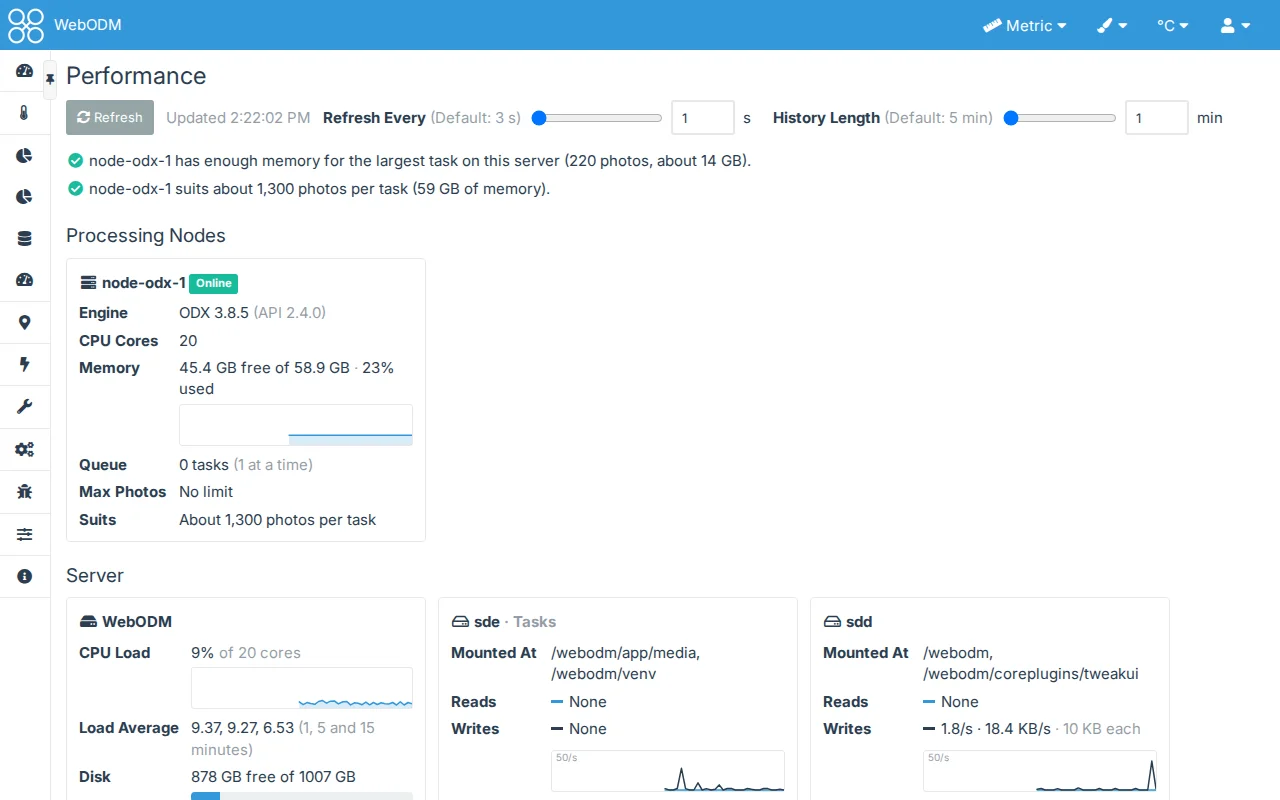
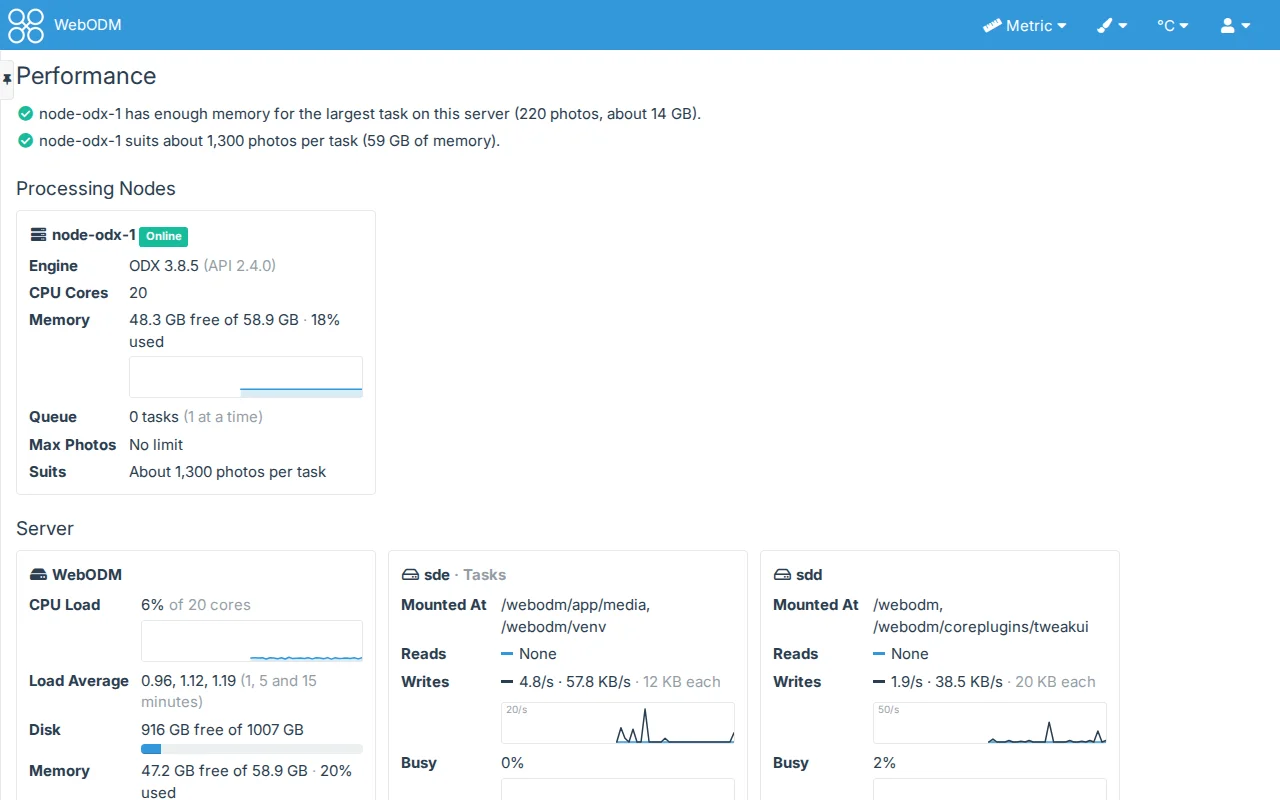
Performance View: Refresh, Refresh Every and History Length above Recent Processing
The page's controls move from under its title to between the server's cards and Recent Processing, the
sliders stacked under Refresh and lined up. Recent Processing renders into its own part below them, so the
controls stay put while the page redraws. Docs, CHANGELOG and screenshots updated.

diff --git a/tweakui/public/__tests__/performance_page.test.js b/tweakui/public/__tests__/performance_page.test.js
@@ -30,6 +30,7 @@ function report(extra) {
 function page(every = 3, history = 5) {
     document.body.innerHTML = `
       <div id="tweakui-performance" data-api="/api/plugins/tweakui/">
+        <div class="tweakui-performance-body"></div>
         <div class="tweakui-performance-bar"><button data-act="refresh"></button><span class="tweakui-performance-status"></span>
           <div class="tweakui-performance-every" data-control="refresh">
             <input type="range" class="tweakui-performance-every-slider" min="1" max="10" step="1" value="${every}">
@@ -42,7 +43,7 @@ function page(every = 3, history = 5) {
             <span class="tweakui-performance-every-status"></span>
           </div>
         </div>
-        <div class="tweakui-performance-body"></div>
+        <div class="tweakui-performance-recent"></div>
       </div>`;
     return document.getElementById("tweakui-performance");
 }
@@ -148,7 +149,7 @@ describe("the Performance page", () => {
         expect(words(rows[1].querySelector("td a"))).toBe("Task of 2026-11-06");
         expect(words(rows[1].querySelector("td a + .text-muted"))).toBe("Flights of pat");
         expect(texts(rows[1], "td").slice(3, 6)).toEqual(["", "", ""]);
-        expect(texts(root, ".tweakui-performance-body > p.text-muted")[0])
+        expect(texts(root, ".tweakui-performance-recent > p.text-muted")[0])
             .toBe("The last 2 finished tasks of yours (completed, failed or canceled), newest first.");
     });
 
@@ -279,6 +280,18 @@ describe("the Performance page", () => {
             .toBe("Recent tasks took about as long per photo as earlier ones (2.1s against 2.0s).");
         const {root} = await started([json(report({trend: {recent: 2, earlier: 4, change: -0.5, same: false}}))]);
         expect(root.querySelector(".tweakui-performance-trend").textContent).toMatch(/50% less/);
+    });
+
+    test("the page's controls sit between the server's cards and Recent Processing, and stay put as the page redraws", async () => {
+        const {root, view} = await started([json(report()), json(report())]);
+        const parts = Array.from(root.children).map(c => c.className);
+        expect(parts).toEqual(["tweakui-performance-body", "tweakui-performance-bar", "tweakui-performance-recent"]);
+        expect(root.querySelector(".tweakui-performance-body [data-server]")).not.toBeNull();
+        expect(root.querySelector(".tweakui-performance-recent h4").textContent).toBe("Recent Processing");
+        const slider = root.querySelector(".tweakui-performance-every-slider");
+        await view.load();
+        expect(root.querySelector(".tweakui-performance-every-slider")).toBe(slider);
+        expect(root.querySelectorAll(".tweakui-performance-recent .tweakui-performance-table").length).toBe(1);
     });
 
     test("Refresh asks again, is disabled while it waits and keeps the page when it fails", async () => {

diff --git a/tweakui/public/main.css b/tweakui/public/main.css
@@ -346,7 +346,9 @@ html.tweakui-dragging, html.tweakui-dragging * { user-select: none; }
 /* Diagnostic > Performance (templates/performance.html, performance_page.js): verdicts, then cards (a processing node
    each, the server) that wrap to one column on a phone, and the recent tasks' table, which scrolls sideways there
    rather than the page. Bars are Bootstrap's progress bars, as WebODM's own Diagnostic page has. */
-.tweakui-performance .tweakui-performance-bar { display: flex; flex-wrap: wrap; align-items: center; gap: 12px; margin-bottom: 12px; }
+/* The page's controls, above Recent Processing: Refresh and its status, then the sliders under it */
+.tweakui-performance .tweakui-performance-bar { display: flex; flex-direction: column; align-items: flex-start; gap: 8px; margin-bottom: 20px; }
+.tweakui-performance .tweakui-performance-bar-top { display: flex; flex-wrap: wrap; align-items: center; gap: 12px; }
 .tweakui-performance .tweakui-performance-verdicts { margin-bottom: 20px; }
 .tweakui-performance .tweakui-performance-verdicts > li { padding: 3px 0; }
 .tweakui-performance .tweakui-performance-cards { display: flex; flex-wrap: wrap; gap: 12px; margin-bottom: 20px; }
@@ -360,12 +362,15 @@ html.tweakui-dragging, html.tweakui-dragging * { user-select: none; }
 .tweakui-performance .tweakui-performance-table td { vertical-align: middle; }
 .tweakui-performance .tweakui-performance-number { text-align: right; white-space: nowrap; }
 .tweakui-performance .tweakui-performance-date, .tweakui-performance .tweakui-performance-step { white-space: nowrap; }
-/* Refresh Every beside Refresh */
+/* Refresh Every and History Length, under Refresh */
 .tweakui-performance .tweakui-performance-every { display: flex; flex-wrap: wrap; align-items: center; gap: 4px 10px; }
 .tweakui-performance .tweakui-performance-every label { margin: 0; }
+/* The two sliders line up under each other where there is room for their labels on one line */
+@media (min-width: 768px) { .tweakui-performance .tweakui-performance-every label { min-width: 15em; } }
 .tweakui-performance .tweakui-performance-every .tweakui-number { display: flex; align-items: center; gap: 8px; width: 220px; }
 .tweakui-performance .tweakui-performance-every input[type=range] { flex: 1 1 auto; min-width: 0; margin: 0; }
 .tweakui-performance .tweakui-performance-every input[type=number] { flex: 0 0 64px; width: 64px; }
+.tweakui-performance .tweakui-performance-every .tweakui-number > span { flex: 0 0 2.5em; }
 .tweakui-performance .tweakui-performance-cpu-note { margin: 6px 0 2px; }
 /* A drive's card: its mount points wrap anywhere (long paths at phone width) */
 .tweakui-performance .tweakui-performance-drive td { overflow-wrap: anywhere; }

diff --git a/tweakui/templates/performance.html b/tweakui/templates/performance.html
@@ -1,15 +1,18 @@
 {% extends "app/plugins/templates/base.html" %}
 {% load i18n %}
 {% block content %}
-{% comment %}Diagnostic > Performance: the processing nodes, the server and the recent tasks, with verdicts on whether they
-suit each other (performance_page.js, performance.py through the plugin's API). Colours come only from WebODM's theme
+{% comment %}Diagnostic > Performance: the processing nodes and the server, then the page's controls (Refresh,
+Refresh Every, History Length), then the recent tasks, with verdicts on whether they suit each other (performance_page.js, performance.py through the plugin's API). Colours come only from WebODM's theme
 classes and Bootstrap's.{% endcomment %}
 <div id="tweakui-performance" class="tweakui-performance" data-api="{{ api }}">
     <h3>{% trans "Performance" %}</h3>
     {% if on %}
+    <div class="tweakui-performance-body"><p class="text-muted"><i class="fa fa-circle-notch fa-spin"></i> {% trans "Asking the processing nodes..." %}</p></div>
     <div class="tweakui-performance-bar">
-        <button type="button" class="btn btn-default btn-sm" data-act="refresh"><i class="fa fa-sync-alt"></i> {% trans "Refresh" %}</button>
-        <span class="tweakui-performance-status text-muted" role="status" aria-live="polite"></span>
+        <div class="tweakui-performance-bar-top">
+            <button type="button" class="btn btn-default btn-sm" data-act="refresh"><i class="fa fa-sync-alt"></i> {% trans "Refresh" %}</button>
+            <span class="tweakui-performance-status text-muted" role="status" aria-live="polite"></span>
+        </div>
         {% for c in controls %}
         <div class="tweakui-performance-every" data-control="{{ c.id }}">
             <label for="tweakui-performance-{{ c.id }}">{{ c.label }} <span class="tweakui-default text-muted">{% blocktrans with value=c.default %}(Default: {{ value }}){% endblocktrans %}</span></label>
@@ -22,7 +25,7 @@ classes and Bootstrap's.{% endcomment %}
         </div>
         {% endfor %}
     </div>
-    <div class="tweakui-performance-body"><p class="text-muted"><i class="fa fa-circle-notch fa-spin"></i> {% trans "Asking the processing nodes..." %}</p></div>
+    <div class="tweakui-performance-recent"></div>
     {% elif withheld %}
     <p class="text-muted"><i class="fa fa-lock fa-fw"></i> {% trans "Performance View is turned off by your administrator." %}</p>
     {% else %}

diff --git a/tweakui/public/performance_page.js b/tweakui/public/performance_page.js
@@ -535,7 +535,9 @@
 
     function render(page, report, load, system, diskRates, view) {
         page.querySelector(".tweakui-performance-body").innerHTML = verdictsHtml(report.verdicts) + nodesHtml(report.nodes, view) +
-            serverHtml(report.server, load, diskRates, view) + tasksHtml(report, system) +
+            serverHtml(report.server, load, diskRates, view);
+        // Recent Processing goes below the page's controls, which stay put while the parts around them redraw
+        page.querySelector(".tweakui-performance-recent").innerHTML = tasksHtml(report, system) +
             '<p class="text-muted small tweakui-performance-note">Memory sizing follows <a href="' + REQUIREMENTS +
             '" target="_blank" rel="noopener noreferrer">WebODM\'s hardware requirements</a>, which are conservative. ' +
             "In Docker, a node has the memory Docker gives it.</p>";

diff --git a/dev/screenshots.js b/dev/screenshots.js
@@ -408,7 +408,7 @@ const SHOTS = [
             if (photos) await photos.click();
             const box = await s.page.evaluate(() => {
                 const scroll = document.querySelector(".tweakui-performance-scroll");
-                const head = Array.from(document.querySelectorAll(".tweakui-performance-body h4")).find(h => h.textContent === "Recent Processing");
+                const head = Array.from(document.querySelectorAll(".tweakui-performance-recent h4")).find(h => h.textContent === "Recent Processing");
                 head.scrollIntoView();
                 const top = head.getBoundingClientRect(), bottom = scroll.getBoundingClientRect();
                 return {x: bottom.left, y: top.top, width: bottom.width, height: bottom.bottom - top.top};

diff --git a/tweakui/tests/test_tweakui.py b/tweakui/tests/test_tweakui.py
@@ -1758,6 +1758,10 @@ class TestPerformance(TweakUITestCase):
         self.assertIn('data-control="history"', on)
         self.assertIn('id="tweakui-performance-history" class="form-control input-sm theme-border" min="1" max="30" step="1" value="30"', on)
         self.assertLess(on.index('data-control="refresh"'), on.index('data-control="history"'))
+        # The controls come after the nodes' and server's part and before Recent Processing's
+        self.assertLess(on.index('class="tweakui-performance-body"'), on.index('data-act="refresh"'))
+        self.assertLess(on.index('data-act="refresh"'), on.index('data-control="refresh"'))
+        self.assertLess(on.index('data-control="history"'), on.index('class="tweakui-performance-recent"'))
 
     def test_the_page_says_where_to_turn_it_on_and_the_api_needs_a_login(self):
         self.patch({"performance_view": False})

diff --git a/docs/performance.md b/docs/performance.md
@@ -9,7 +9,8 @@ withhold it from users in [Administration > TweakUI](administration).
 
 The **Diagnostic** item in the side menu gets a **Performance** sub-item, after **System** (WebODM's own Diagnostic
 page) and **Storage** if that is on too. If an administrator has turned the Diagnostic plugin off, the **TweakUI**
-item gets it instead. The page is asked afresh each time it opens, and again with **Refresh**. While it is open, the
+item gets it instead. The page is asked afresh each time it opens, and again with **Refresh** (above
+[Recent Processing](#recent-processing), with Refresh Every and History Length under it). While it is open, the
 CPU load, the disks' activity and the memory refresh by themselves (see [Refresh Every](#refresh-every)), each drawn
 as a graph over the last few minutes (see [History Length](#history-length)), and the free disk space every 10
 seconds.
@@ -86,16 +87,17 @@ turns to a warning colour past 80% used and to danger past 95%.
 
 ### Refresh Every
 
-A part of Show Performance View, 3 seconds unless you change it. How often the page refreshes the CPU load, the
-disks' activity, the server's memory and each node's memory, from 1 to 10 seconds. It is on the settings page and at the top of the
-Performance page, beside **Refresh** (a slider and a box, as for the other number settings); a change there applies at
-once and is saved when you let go of the slider or leave the box. The free disk space refreshes every 10 seconds. Nothing is
-refreshed while the browser tab is hidden, and a refresh waits for the last to be answered.
+A part of Show Performance View, 3 seconds unless you change it. How often the page refreshes the CPU load, the disks'
+activity, the server's memory and each node's memory, from 1 to 10 seconds. It is on the settings page and on the
+Performance page, under **Refresh** above Recent Processing (a slider and a box, as for the other number settings); a
+change there applies at once and is saved when you let go of the slider or leave the box. The free disk space
+refreshes every 10 seconds. Nothing is refreshed while the browser tab is hidden, and a refresh waits for the last to
+be answered.
 
 ### History Length
 
 A part of Show Performance View, 5 minutes unless you change it. How much time the graphs show, from 1 to 30
-minutes, newest at the right. Like Refresh Every, it is on the settings page and at the top of the Performance page,
+minutes, newest at the right. Like Refresh Every, it is on the settings page and on the Performance page, under it,
 where a change redraws the graphs at once (with the readings the page has kept: a longer window shows more once the
 page has been open that long).
 

diff --git a/CHANGELOG.md b/CHANGELOG.md
@@ -1,5 +1,12 @@
 # Changelog
 
+## Unreleased
+
+### Diagnostic
+
+- Performance View: Refresh, Refresh Every and History Length moved from the top of the page to just above Recent
+  Processing, the two sliders under Refresh.
+
 ## 1.0.0 (2026-11-09)
 
 The first release. Every feature is off until a user turns it on in their own TweakUI settings (the **TweakUI** item
